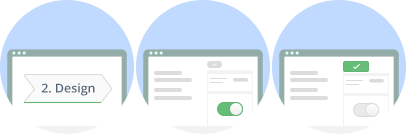
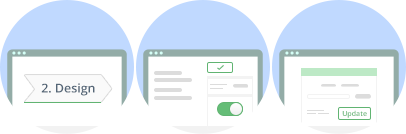
EWD-24304 - Correct hint for results page
Former-commit-id: 5e007fe48a0ea190bb8d970768d75a53f8f8a0e9

diff --git a/sources/easygenerator.Web/App/localization/resources.js b/sources/easygenerator.Web/App/localization/resources.js
@@ -395,13 +395,13 @@
         en: 'Make sure that \"results tracking\" is enabled for this course:'
     },
     goToDesignStep: {
-        en: '1. Go to the \"Design\"<br/>step'
+        en: '1. Go to the \"Design\" step'
     },
     resultTrackingShouldBeEnabled: {
-        en: '2. Results tracking should<br/>be enabled'
+        en: '2. Enable results tracking and confirm by clicking \"Apply\"'
     },
     confirmByApply: {
-        en: '3. Confirm by<br/>clicking \"Apply\"'
+        en: '3. Go to the \"Publish\" step and update the course'
     },
     loadingReportedResults: {
         en: 'Loading data...'

diff --git a/sources/easygenerator.Web/Content/course.css b/sources/easygenerator.Web/Content/course.css
@@ -1630,7 +1630,7 @@ td.r-name {
 
 .no-results-steps-container {
     display: table;
-    padding: 45px 15px;
+    padding: 45px 0;
     width: 100%;
 }
 
@@ -1648,7 +1648,7 @@ td.r-name {
     }
 
     .no-results-step.desc {
-        width: 180px;  
+        width: 210px;  
     }
 
 .no-results-step-arrow {
@@ -1740,11 +1740,7 @@ td.r-name {
     }
 
     .no-results-step.desc {
-        width: 134px;  
-    }
-
-    .no-results-hint {
-        margin: 0 -23px;
+        width: 150px;  
     }
 }
 
